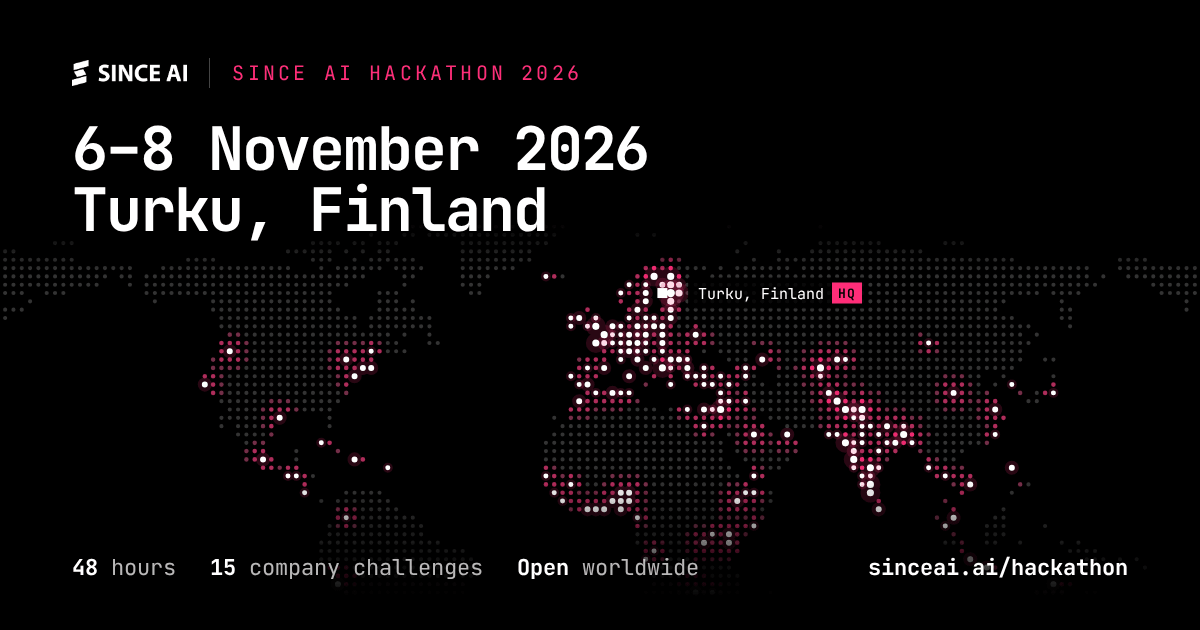
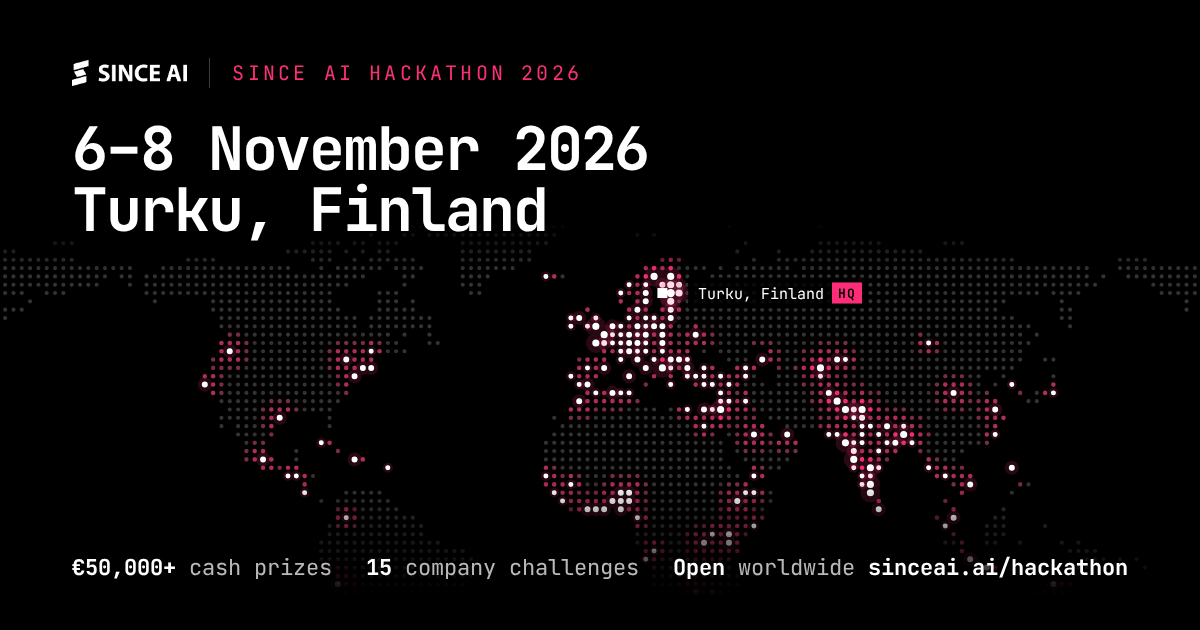
fix(guide): nothing tells a remote partner to travel, or implies its support hours
The 3D no longer offers TrustED's room a walking route that said to bring
stand materials, and a link to trusted or tba-2 lands on room 2067. Discord
support is not an "All day" schedule item while the hours are unconfirmed, and
TrustED's calendar names no venue address. The Discord Guide says "before the
event" rather than assuming travel.

The /hackathon share image and ai.txt no longer say 48 hours.

Changed region(s): [[0.0617, 0.8746, 0.7092, 0.9349]]

diff --git a/lib/hackathon-2026/companies.ts b/lib/hackathon-2026/companies.ts
@@ -224,9 +224,11 @@ export function companySchedule(company: ChallengeCompany): ScheduleItem[] {
 
 /**
  * A remote partner's timeline: only what it does itself, with the on-site
- * partner's arrivals, stands, meals and briefings left out.
+ * partner's arrivals, stands, meals and briefings left out. Its Discord hours
+ * are not a schedule item: nothing here may imply hours it has not confirmed.
  */
 function remoteCompanySchedule(company: ChallengeCompany): ScheduleItem[] {
+  const REMOTE_BRIEFING_LOCATION = "Online (video call; Since AI sends the link)";
   const room = `Room ${briefingRoomLabel(company)} · floor ${company.briefing.floor}`;
   const own: Record<string, Partial<ScheduleItem>> = {
     "fri-move-to-briefings": {
@@ -235,12 +237,14 @@ function remoteCompanySchedule(company: ChallengeCompany): ScheduleItem[] {
         "challenge-partners": "From 18:30 volunteers guide the teams to the rooms in turn. A Since AI host receives them.",
       },
       placeDetailFor: { "challenge-partners": room },
+      calendarLocation: REMOTE_BRIEFING_LOCATION,
     },
     "fri-briefings": {
       detailFor: {
         "challenge-partners": `A Since AI host in the room introduces the challenge, shows your approved brief on screen and runs the AV and the video call. Your experts join by video to give context and answer questions, which the teams ask in the room. Share materials only with the teams that chose ${company.name}. 19:30 is a hard end for every briefing.`,
       },
       placeDetailFor: { "challenge-partners": `${room} · by video` },
+      calendarLocation: REMOTE_BRIEFING_LOCATION,
     },
     "sun-evaluation": {
       place: "app",
@@ -254,25 +258,12 @@ function remoteCompanySchedule(company: ChallengeCompany): ScheduleItem[] {
       detailFor: {
         "challenge-partners": "Since AI announces your top three teams at EduCity. There is no need to travel.",
       },
+      calendarLocation: "Online (announced at EduCity)",
     },
   };
-  const saturday: ScheduleItem = {
-    id: "sat-remote-support",
-    start: "2026-11-07T00:00:00+02:00",
-    allDay: true,
-    title: "Remote technical support on Discord",
-    detail: `No stand at Joki. ${company.name}'s experts answer teams' technical questions in its Discord channel. ${remoteSupportStatement(company)}.`,
-    place: "app",
-    placeDetail: "Discord",
-    audiences: ["challenge-partners"],
-    kind: "note",
-    status: company.remote?.supportWindows.length ? "confirmed" : "pending",
-  };
-  const items = scheduleFor("challenge-partners")
+  return scheduleFor("challenge-partners")
     .filter((item) => item.id === "sun-submission-deadline" || item.id in own)
     .map((item) => ({ ...item, ...own[item.id] }));
-  const firstSunday = items.findIndex((item) => item.start.startsWith("2026-11-08"));
-  return [...items.slice(0, firstSunday), saturday, ...items.slice(firstSunday)];
 }
 
 /** A remote partner's Discord hours, only once it has confirmed them. */

diff --git a/app/hackathon-2026/guide/discord/page.tsx b/app/hackathon-2026/guide/discord/page.tsx
@@ -89,7 +89,7 @@ export default function DiscordGuidePage() {
             { label: "Time needed", value: "About 10 min", sub: "One-time setup" },
             { label: "Cost", value: "Free", sub: "No subscription needed" },
             { label: "Works in", value: "Your browser", sub: "Or the phone and computer apps" },
-            { label: "When", value: "Before you travel", sub: "Every onsite representative", strong: true },
+            { label: "When", value: "Before the event", sub: "Every representative", strong: true },
           ]}
         />
         <div className="guide-no-print flex flex-col gap-3 sm:flex-row sm:items-center">
@@ -153,7 +153,7 @@ export default function DiscordGuidePage() {
           id="setup-title"
           eyebrow="// set up in six steps"
           title="From invite to your company channel."
-          lede="Do this once, before you travel. The pink outline in each picture shows where to click."
+          lede="Do this once, before the event. The pink outline in each picture shows where to click."
         />
         <ol className="space-y-6">
           {steps.map((step, i) => (
@@ -257,7 +257,7 @@ export default function DiscordGuidePage() {
           id="phone-title"
           eyebrow="// on the move"
           title="Put Discord on your phone."
-          lede="At the event you will be walking between rooms. With the app on your phone, questions reach you wherever you are. At least one onsite representative per company keeps phone notifications on."
+          lede="With the app on your phone, questions reach you wherever you are during the event. At least one representative per company keeps phone notifications on."
         />
         <div className="grid grid-cols-1 gap-10 md:grid-cols-[3fr_2fr] md:items-center">
           <div>
@@ -288,7 +288,7 @@ export default function DiscordGuidePage() {
           lede="Tick each item off. Your ticks are saved in this browser only."
         />
         <div className="max-w-2xl">
-          <Checklist single storageKey="discord-guide" groups={[{ title: "Before you arrive in Turku", items: DISCORD_CHECKLIST }]} />
+          <Checklist single storageKey="discord-guide" groups={[{ title: "Before the event", items: DISCORD_CHECKLIST }]} />
         </div>
       </GuideSection>
 

diff --git a/components/guide/twin/__tests__/Twin.test.tsx b/components/guide/twin/__tests__/Twin.test.tsx
@@ -1,3 +1,4 @@
+import { getTarget3D } from "@/lib/hackathon-2026/twin";
 import { act, fireEvent, render, screen, waitFor, within } from "@testing-library/react";
 import userEvent from "@testing-library/user-event";
 import {
@@ -262,6 +263,11 @@ describe("readTwinParams", () => {
 });
 
 describe("tourForTarget", () => {
+  it("offers no walking route to a remote partner's room, whose arrival routes tell people to bring a stand", () => {
+    expect(tourForTarget(getTarget3D("room-trusted")!)).toBeNull();
+    expect(tourForTarget(getTarget3D("room-valmet")!)).not.toBeNull();
+  });
+
   const target = (over: Partial<Target3D>): Target3D => ({
     id: "x",
     label: "X",
@@ -322,7 +328,9 @@ describe("tourForTarget", () => {
 
   it("picks the expected routes in the real data", () => {
     const pick = (id: string) => tourForTarget(TARGETS_3D.find((t) => t.id === id)!)?.id;
-    for (const t of TARGETS_3D.filter((x) => x.kind === "company" || x.kind === "room" || x.kind === "stand")) {
+    for (const t of TARGETS_3D.filter(
+      (x) => (x.kind === "company" || x.kind === "room" || x.kind === "stand") && x.company !== "trusted",
+    )) {
       expect(tourForTarget(t)).not.toBeNull();
     }
     expect(pick("elisa")).toBe("companies-tykistokatu-to-showroom");

diff --git a/lib/hackathon-2026/discord.ts b/lib/hackathon-2026/discord.ts
@@ -14,14 +14,14 @@ export const DISCORD_GUIDE_PATH = `${GUIDE_BASE_PATH}/discord`;
 
 export type DiscordAudience = "challenge-partners" | "partners";
 
-/** Before arriving in Turku — the same for every partner. */
+/** Before the event — the same for every partner. */
 export const DISCORD_CHECKLIST: readonly string[] = [
   "Join the Since AI Discord",
   "Verify your Discord account (email)",
   "Set a recognisable display name: First name | Company",
   "Confirm your company role and access",
   "Check your company and partner channels",
-  "Turn on notifications on at least one onsite representative’s phone",
+  "Turn on notifications on at least one representative’s phone",
 ];
 
 /**
@@ -108,7 +108,7 @@ export function discordSteps(example: string): DiscordStep[] {
       id: "channels",
       title: "Find your company channel",
       text: "The Since AI team gives your account your company role. Your company's channels then appear in the channel list on the left. Click a channel to open it.",
-      tip: "Channels still missing a day before you travel? Tell us — see Help below.",
+      tip: "Channels still missing a day before the event? Tell us — see Help below.",
       illustration: "channels",
     },
   ];

diff --git a/components/guide/RemoteCompanyGuide.tsx b/components/guide/RemoteCompanyGuide.tsx
@@ -156,6 +156,7 @@ export function RemoteCompanyGuide({ company }: { company: ChallengeCompany }) {
         <div className="guide-no-print flex flex-wrap gap-3">
           <a href={DISCORD_INVITE} target="_blank" rel="noopener noreferrer" className={ghostButtonClass}>
             Join the Since AI Discord
+            <span className="sr-only"> (opens in a new tab)</span>
           </a>
           <Link href={DISCORD_GUIDE_PATH} className={ghostButtonClass}>
             Discord Guide
@@ -177,7 +178,7 @@ export function RemoteCompanyGuide({ company }: { company: ChallengeCompany }) {
           id="schedule-title"
           eyebrow="// schedule"
           title="Your timeline."
-          lede="Local Turku time (EET, UTC+2). Only what applies to a remote partner."
+          lede="Local Turku time (EET, UTC+2). Only what applies to a remote partner: Discord support hours are added when they are confirmed."
         />
         <div className="mb-8 flex flex-wrap gap-3">
           <CalendarButton company={company} />

diff --git a/lib/hackathon-2026/__tests__/data.test.ts b/lib/hackathon-2026/__tests__/data.test.ts
@@ -514,7 +514,6 @@ describe("company schedule", () => {
       expect(schedule.map((i) => i.id)).toEqual([
         "fri-move-to-briefings",
         "fri-briefings",
-        "sat-remote-support",
         "sun-submission-deadline",
         "sun-evaluation",
         "sun-closing",
@@ -529,9 +528,9 @@ describe("company schedule", () => {
     it("never promises support hours the partner has not confirmed", () => {
       expect(trusted.remote?.supportWindows).toEqual([]);
       expect(remoteSupportStatement(trusted)).toBe("Remote support schedule to be confirmed");
-      const text = JSON.stringify([trusted, companySchedule(trusted)]);
-      expect(text).toContain("Remote support schedule to be confirmed");
-      expect(text).not.toMatch(/19:30–20:30|10:00–12:00|15:00–17:00/);
+      const schedule = companySchedule(trusted);
+      expect(schedule.some((i) => i.allDay)).toBe(false);
+      expect(JSON.stringify([trusted, schedule])).not.toMatch(/19:30–20:30|10:00–12:00|15:00–17:00/);
     });
   });
 

diff --git a/components/guide/twin/Twin.tsx b/components/guide/twin/Twin.tsx
@@ -65,6 +65,7 @@ import {
   type Target3D,
   type Tour3D,
 } from "@/lib/hackathon-2026/twin";
+import { getCompany, hasStand } from "@/lib/hackathon-2026/companies";
 import { cn } from "@/lib/utils";
 import type { TwinEngine, TwinOptions } from "./engine";
 import { nightFactor, sunAtTurku } from "./engine/sky/sun";
@@ -328,6 +329,9 @@ const isPartnerTarget = (t: Target3D) =>
  * (unless the target is a door), then the earliest in event order.
  */
 export function tourForTarget(target: Target3D, tours: readonly Tour3D[] = TOURS_3D): Tour3D | null {
+  // A remote partner travels nowhere: its room is hosted, and the arrival routes are for people who come.
+  const company = target.company ? getCompany(target.company) : undefined;
+  if (company && !hasStand(company)) return null;
   const named = (target as Target3D & { tour?: string }).tour;
   if (named) {
     const tour = tours.find((t) => t.id === named);

diff --git a/lib/hackathon-2026/twin.ts b/lib/hackathon-2026/twin.ts
@@ -1092,6 +1092,11 @@ export function normaliseTarget(id: string | null | undefined): string | null {
   const key = id?.trim().toLowerCase();
   if (!key) return null;
   if (TARGET_BY_ID.has(key)) return key;
+  // The last challenge place was shared as tba-2 before it was TrustED's.
+  if (key === "tba-2" || key === "room-tba-2") return "room-trusted";
+  // A company without a stand is found in its Friday room.
+  const remote = getCompany(key);
+  if (remote && !hasStand(remote)) return `room-${remote.id}`;
   const stand = BIOCITY_STANDS.find((s) => s.partnerId === key);
   if (stand) return stand.id;
   const room = /^room-(\d{4})$/.exec(key);

diff --git a/lib/hackathon-2026/__tests__/calendar.test.ts b/lib/hackathon-2026/__tests__/calendar.test.ts
@@ -74,6 +74,13 @@ describe("calendar export", () => {
 });
 
 describe("company calendar", () => {
+  it("sends a remote partner to no venue and states no support hours", () => {
+    const text = buildCompanyCalendar(getCompany("trusted")!);
+    expect(text).not.toMatch(/LOCATION:EduCity|LOCATION:Joki|VALUE=DATE/);
+    expect(text).toContain("LOCATION:Online (video call\\; Since AI sends the link)");
+    expect(text).toContain("LOCATION:Online (announced at EduCity)");
+  });
+
   const elisa = getCompany("elisa")!;
   const fonecta = getCompany("fonecta")!;
 

diff --git a/lib/hackathon-2026/__tests__/twin.test.ts b/lib/hackathon-2026/__tests__/twin.test.ts
@@ -451,6 +451,7 @@ describe("company routes", () => {
     expect(getTarget3D("room-trusted")).toMatchObject({ company: "trusted", day: "Fri", map: "educity-2", where: "EduCity · room 2067" });
     const trusted = getCompany("trusted");
     for (const tour of TOURS_3D) expect(twin.tourForCompany(tour, trusted?.id)).toBeNull();
+    for (const id of ["trusted", "tba-2", "room-tba-2", "room-2067"]) expect(twin.normaliseTarget(id)).toBe("room-trusted");
   });
 
   it("pair each company's Q&A stand with its Friday room and point at their floor plans", () => {

diff --git a/lib/hackathon-2026/calendar.ts b/lib/hackathon-2026/calendar.ts
@@ -102,7 +102,7 @@ function eventLines(item: ScheduleItem, audience: Audience, url: string, uidScop
   lines.push(
     `SUMMARY:${escapeText(summary)}`,
     `DESCRIPTION:${escapeText(description)}`,
-    `LOCATION:${escapeText(locationFor(item.place))}`,
+    `LOCATION:${escapeText(item.calendarLocation ?? locationFor(item.place))}`,
     `URL:${url}`,
     `STATUS:${item.status === "confirmed" ? "CONFIRMED" : "TENTATIVE"}`,
     "TRANSP:TRANSPARENT",

diff --git a/lib/hackathon-2026/types.ts b/lib/hackathon-2026/types.ts
@@ -53,6 +53,8 @@ export interface ScheduleItem {
   /** Sub-location, e.g. "Lobby · Taidon portaat". */
   placeDetail?: string;
   placeDetailFor?: Partial<Record<Audience, string>>;
+  /** Replaces the venue's address in a calendar file, for someone who takes part remotely. */
+  calendarLocation?: string;
   audiences: readonly Audience[];
   kind: "milestone" | "deadline" | "meal" | "session" | "move" | "note";
   status: Publishability;
